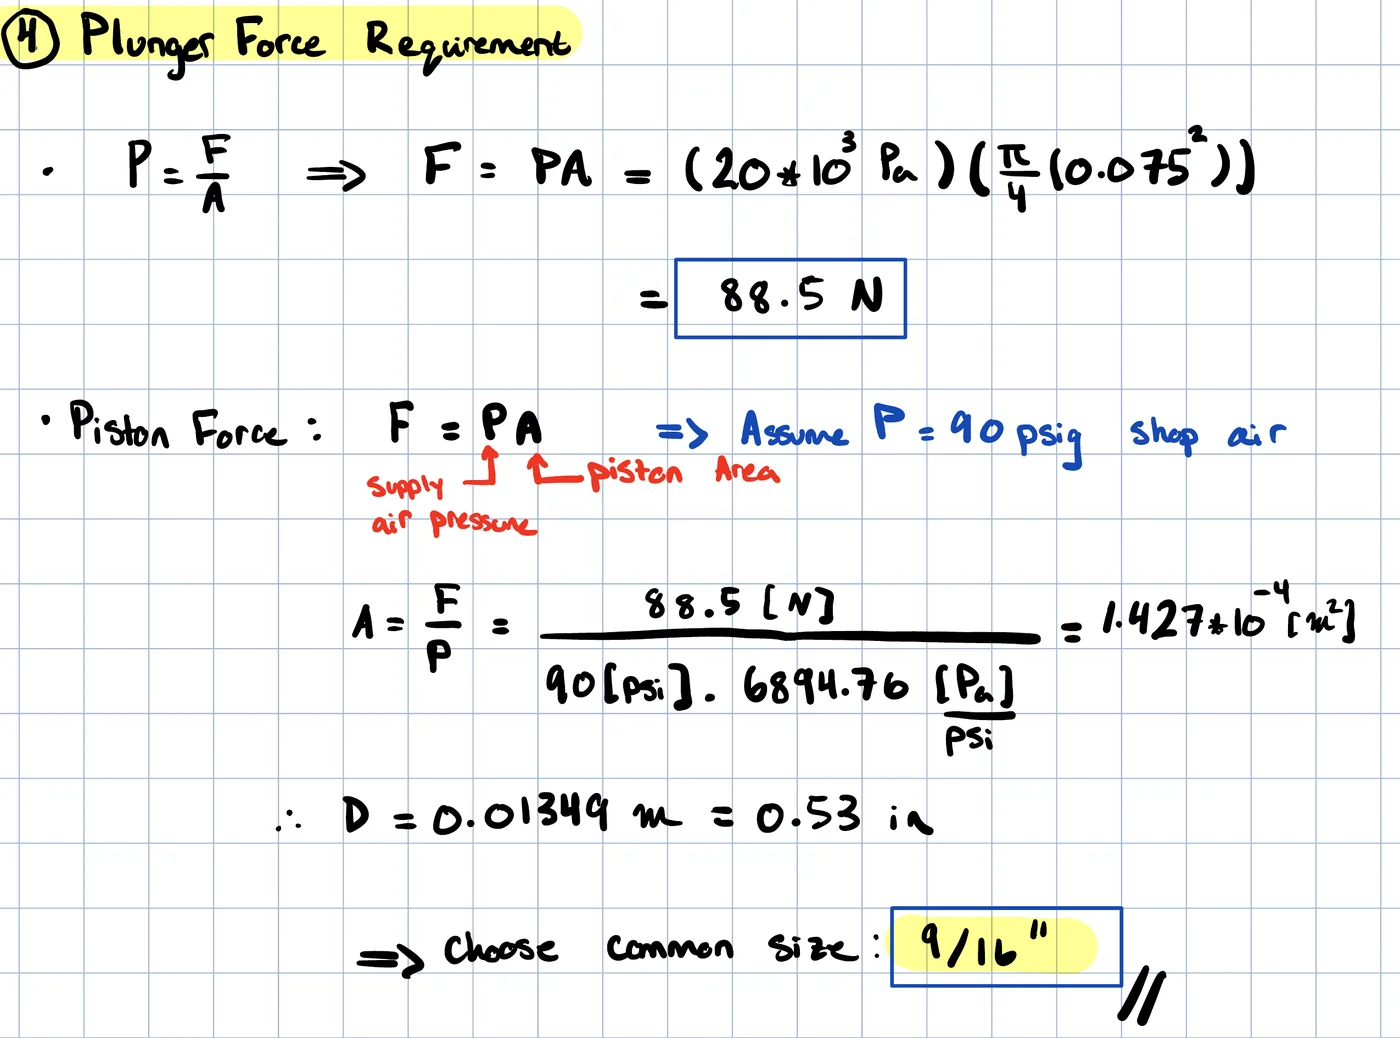
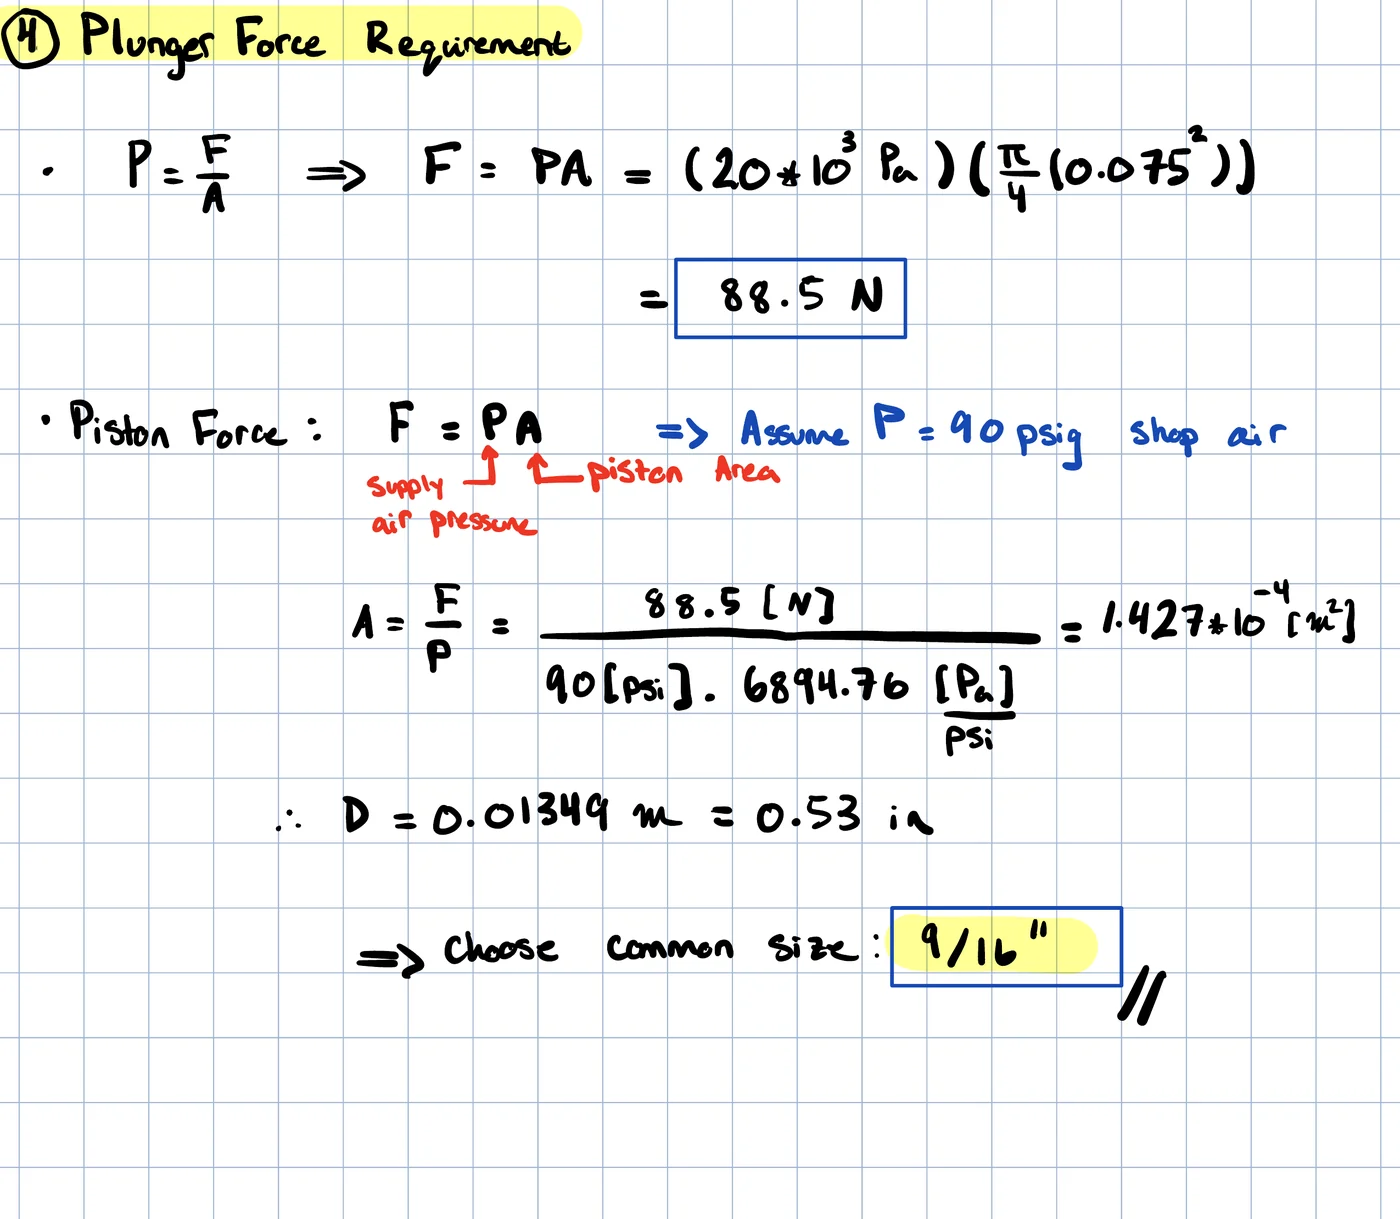
even 2x2 grid for the hand calcs

diff --git a/index.html b/index.html
@@ -675,6 +675,9 @@ img.w-logo{position:absolute;left:0;top:0;pointer-events:none;background:#fff;bo
 
 /* write-ups: slides full width and readable; photos side by side; click any picture to enlarge */
 .proj-figs{grid-template-columns:repeat(auto-fit,minmax(260px,1fr))}
+/* hand calculations: two even columns, each row the same height */
+.proj-figs.fy-calcs{grid-template-columns:repeat(2,minmax(0,1fr));gap:18px;align-items:start}
+@media (max-width:700px){.proj-figs.fy-calcs{grid-template-columns:minmax(0,1fr)}}
 .proj figure img{cursor:zoom-in}
 .proj-nav{display:flex;gap:8px;margin-left:auto}
 .proj-nav button{font:600 14px "IBM Plex Sans",system-ui,sans-serif;background:#f1f2f4;color:#1f2328;border:1px solid #d9dde2;border-radius:7px;padding:8px 12px;cursor:pointer;white-space:nowrap}
